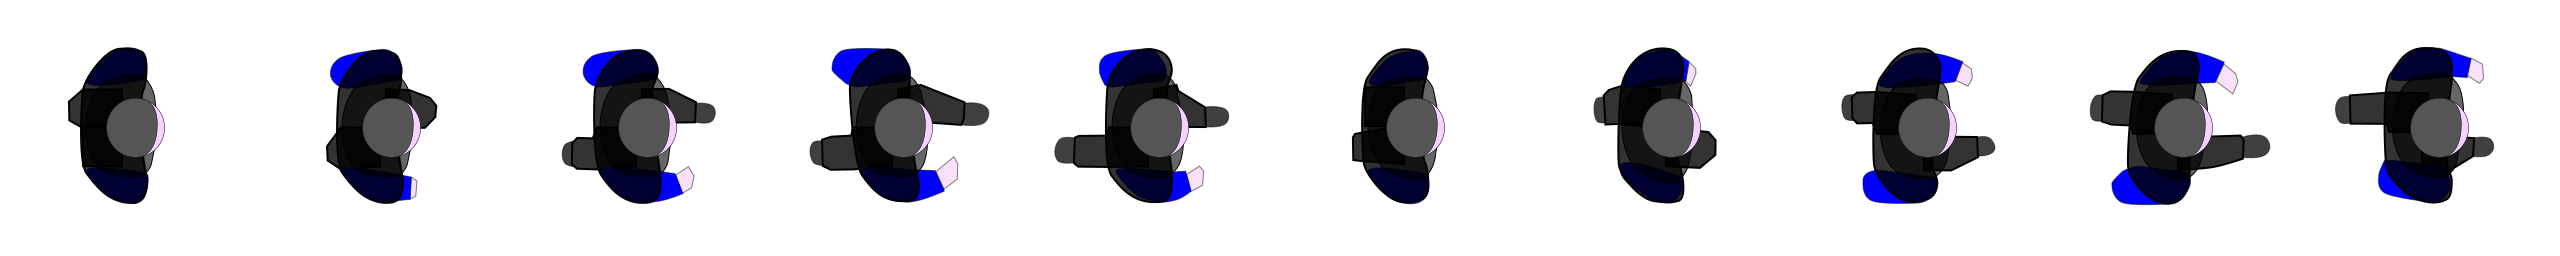
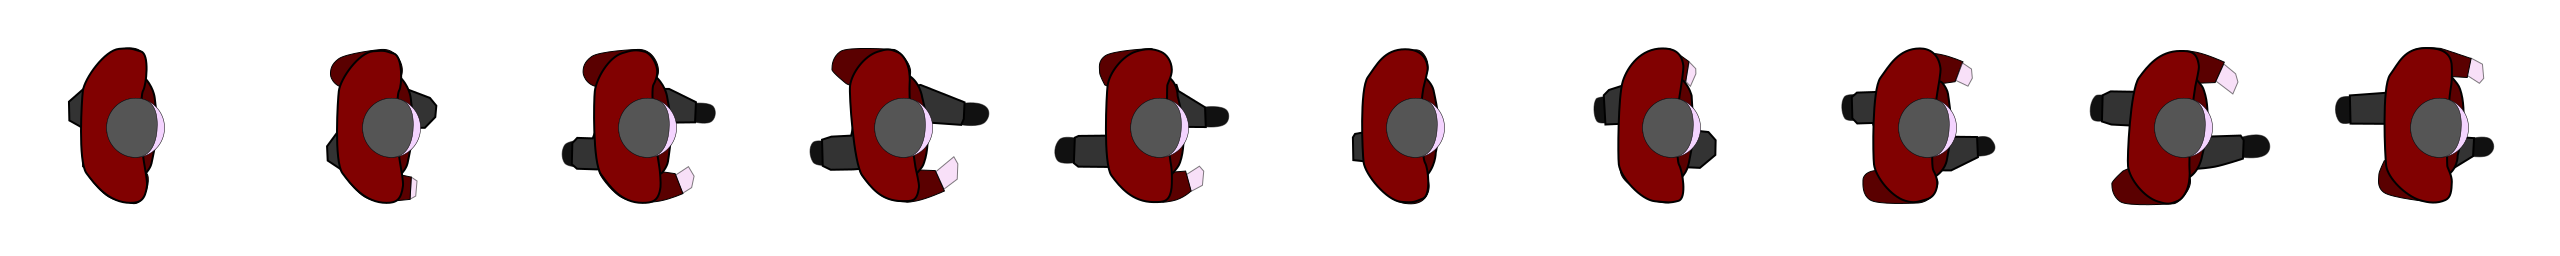
chore: experiment with npc colouring

diff --git a/projects/npc/NPCs.jsx b/projects/npc/NPCs.jsx
@@ -194,7 +194,7 @@ const rootCss = css`
 import npcJson from '../../public/npc/first-npc.json'
 const { animLookup: anim, zoom } = npcJson;
 /** Scale the sprites */
-const npcScale = 0.15;
+const npcScale = 0.18;
 /** Ensure NPC faces along positive x-axis */
 // const npcOffsetAngleDeg = 90;
 const npcOffsetAngleDeg = 0;
@@ -205,7 +205,7 @@ const npcCss = css`
     cursor: pointer;
     position: absolute;
     pointer-events: all;
-    filter: grayscale(100%);
+    filter: grayscale(100%) contrast(120%) brightness(80%);
     /* transform: scale(0.18) rotate(90deg); */
   }
   

diff --git a/model/sh/sh.lib.ts b/model/sh/sh.lib.ts
@@ -185,7 +185,7 @@ call '({args}) =>
 
     // TEST DEBUG
     const path = (res?.paths??[]).reduce((agg, item) => agg.concat(item), []);
-    wire.next({ key: "debug-path", pathName: "foo", path })
+    wire.next({ key: "debug-path", pathName: "test-" + npcKey, path })
   }' "$@"
 }`,
 
